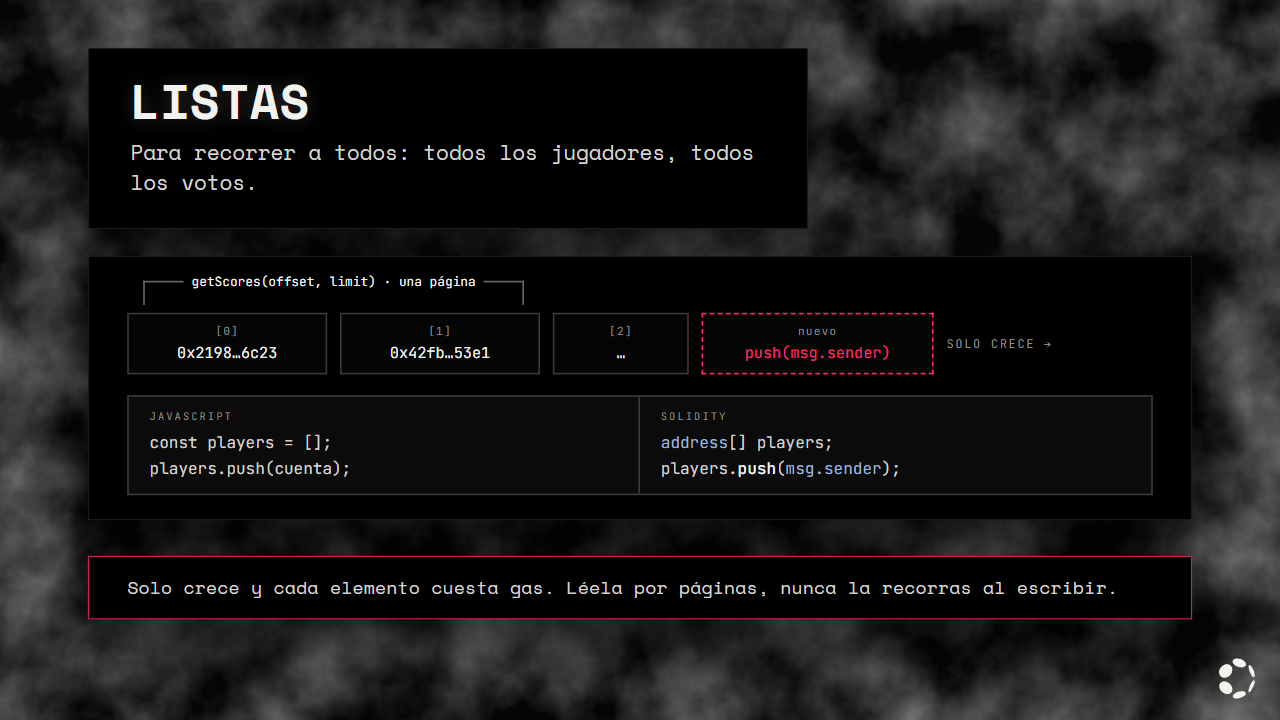
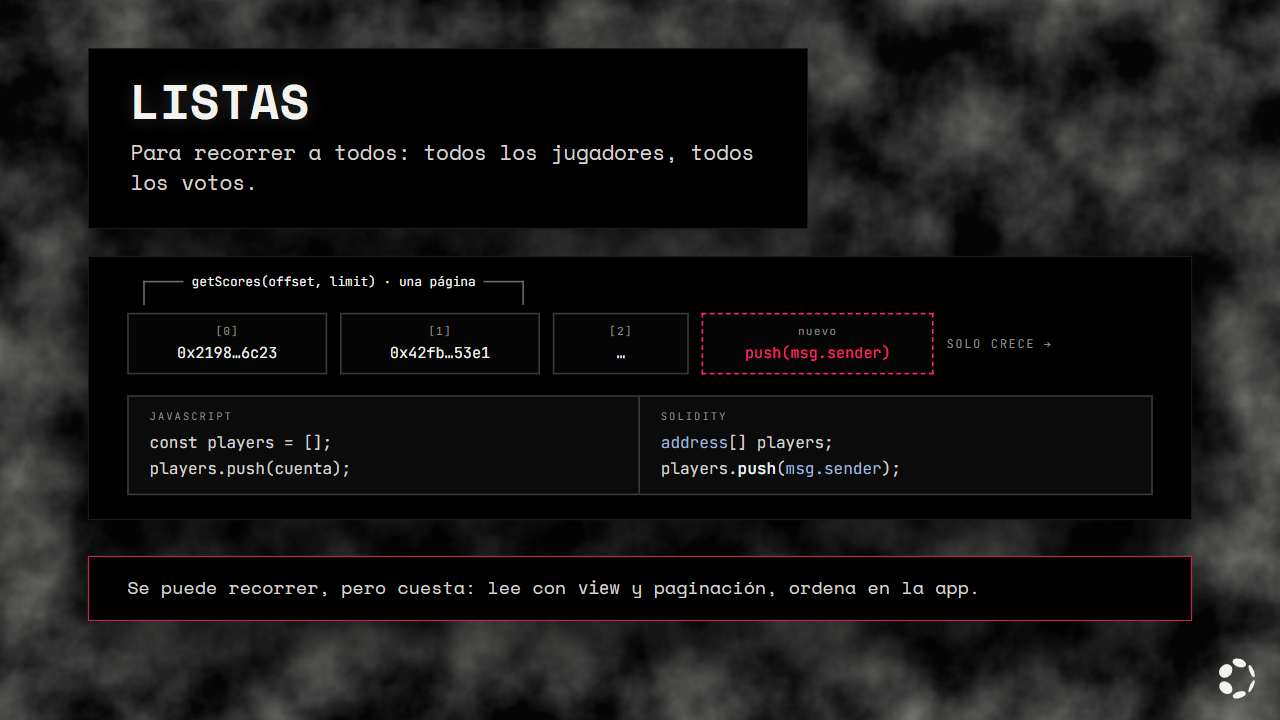
docs(03): listas se recorren con view y paginación

Changed region(s): [[0.0625, 0.8556, 0.9375, 0.8861], [0.0938, 0.7944, 0.875, 0.825]]

diff --git a/slides/03-smart-contracts.html b/slides/03-smart-contracts.html
@@ -339,7 +339,7 @@ players.<span class="fn">push</span>(<span class="ty">msg.sender</span>);</div><
       </div>
     </div>
     <div class="panel" style="left:110px; top:695px; width:1380px; padding:22px 48px; border-color:var(--accent);">
-      <div class="lead" style="font-size:23px;">Solo crece y cada elemento cuesta gas. Léela por páginas, nunca la recorras al escribir.</div>
+      <div class="lead" style="font-size:23px;">Se puede recorrer, pero cuesta: lee con <span class="code">view</span> y paginación, ordena en la app.</div>
     </div>
   </section>
 

diff --git a/contenido/03-smart-contracts.md b/contenido/03-smart-contracts.md
@@ -92,9 +92,8 @@ players.push(msg.sender);
 Ten cuidado con dos cosas:
 
 - **Las listas solo crecen.** Cada elemento que agregas se queda guardado para siempre y cuesta gas.
-- **Recorrer una lista muy larga dentro de una función que escribe** puede costar tanto gas que la
-  transacción falle. Por eso `Leaderboard` la lee por páginas (`getScores(offset, limit)`), y solo
-  en funciones de lectura.
+- **Se puede recorrer, pero cuesta.** Léela con funciones `view` y por páginas, como hace
+  `Leaderboard` con `getScores(offset, limit)`, y ordena los resultados en la app.
 
 > **Pídeselo a la IA así:** *"Guarda en una lista a cada jugador la primera vez que envía un
 > puntaje, y agrega una función de lectura que la devuelva por páginas."*
